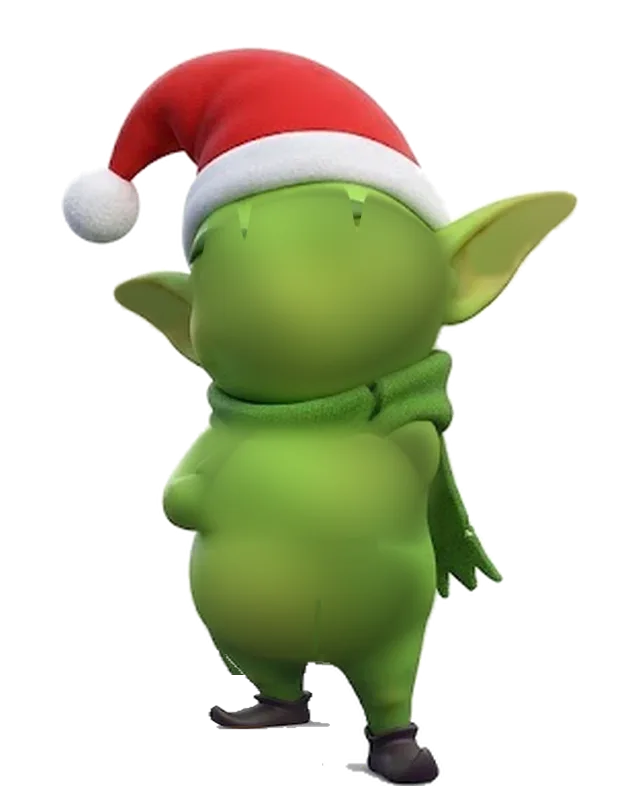
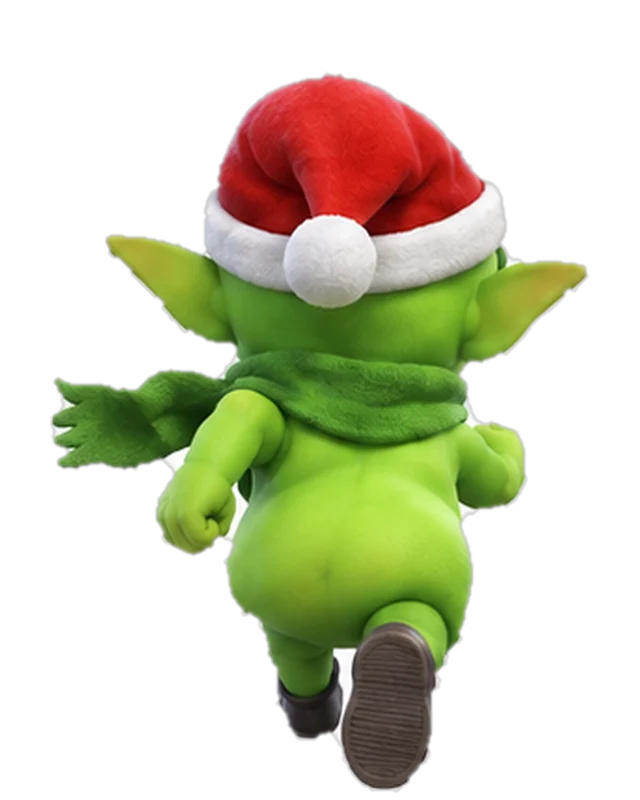
Zibo: 9 new 3D poses (real back-view run cycle, throw, dizzy, sack, taunt, angry, scared, cry)
Claude-Session: https://claude.ai/code/session_0191AENQkwj7j43dyMYaZkx6

diff --git a/js/core/assets.js b/js/core/assets.js
@@ -4,19 +4,26 @@
 window.CZ = window.CZ || {};
 
 CZ.OVERRIDES = {
-  // Zibo'nun Gemini çizimleri. Eksik pozlar gelene kadar en yakın poz kullanılır.
+  // Zibo'nun Gemini çizimleri (3D). Arkadan koşu, sersemleme, atış gibi pozlar ayrı ayrı.
   'zibo.idle': 'assets/zibo/png/smug.webp',
   'zibo.blink': 'assets/zibo/png/blink.webp',
   'zibo.smug': 'assets/zibo/png/smug.webp',
   'zibo.laugh': 'assets/zibo/png/laugh.webp',
-  'zibo.mad': 'assets/zibo/png/mad.webp',
-  'zibo.nervous': 'assets/zibo/png/nervous.webp',
-  'zibo.tantrum': 'assets/zibo/png/tantrum.webp',
-  'zibo.tongue': 'assets/zibo/png/run_tongue.webp',
+  'zibo.taunt': 'assets/zibo/png/taunt.webp',
+  'zibo.tongue': 'assets/zibo/png/taunt.webp',
+  'zibo.mad': 'assets/zibo/png/angry.webp',
+  'zibo.angry': 'assets/zibo/png/angry.webp',
+  'zibo.nervous': 'assets/zibo/png/scared.webp',
+  'zibo.scared': 'assets/zibo/png/scared.webp',
+  'zibo.tantrum': 'assets/zibo/png/cry.webp',
+  'zibo.cry': 'assets/zibo/png/cry.webp',
+  'zibo.dizzy': 'assets/zibo/png/dizzy.webp',
+  'zibo.throw': 'assets/zibo/png/throw.webp',
+  'zibo.sack': 'assets/zibo/png/sack.webp',
+  'zibo.runLoot': 'assets/zibo/png/sack.webp',
   'zibo.run1': 'assets/zibo/png/back1.webp',
   'zibo.run2': 'assets/zibo/png/back2.webp',
-  'zibo.back': 'assets/zibo/png/back.webp',
-  'zibo.runLoot': 'assets/zibo/png/run_loot.webp',
+  'zibo.back': 'assets/zibo/png/back1.webp',
   // Kunduz Usta: ev inşasında yardımcı
   'usta.wave': 'assets/usta/wave.webp', 'usta.talk': 'assets/usta/talk.webp', 'usta.hammer': 'assets/usta/hammer.webp',
   'usta.worried': 'assets/usta/worried.webp', 'usta.cheer': 'assets/usta/cheer.webp', 'usta.think': 'assets/usta/think.webp'

diff --git a/js/screens/chase.js b/js/screens/chase.js
@@ -124,7 +124,8 @@ CZ.screens.chase = (function () {
     c.bombs.slice().forEach(b => { if (now >= b.at) explode(b); });
 
     // Koşu karesi: bacaklar sırayla.
-    const runFrame = Math.floor(c.frame * 6) % 2 ? 'zibo.run2' : 'zibo.run1';
+    // Bomba atarken kısa bir an dönüp atar, sonra koşmaya devam eder.
+    const runFrame = now < (c.poseUntil || 0) ? 'zibo.throw' : Math.floor(c.frame * 6) % 2 ? 'zibo.run2' : 'zibo.run1';
     if (c.ziboImg.dataset.f !== runFrame) { c.ziboImg.dataset.f = runFrame; c.ziboImg.src = CZ.art(runFrame); }
     const me = 'avatar.' + (CZ.state.data.avatar || 'girl') + (Math.floor(c.frame * 6.6) % 2 ? '_run2' : '_run1');
     if (c.player.dataset.f !== me) { c.player.dataset.f = me; c.player.src = CZ.art(me); }
@@ -171,6 +172,7 @@ CZ.screens.chase = (function () {
   /* ---------- Bombalar ---------- */
   function throwBomb(now) {
     c.nextBomb = now + byLevel(C.bombEveryMs) * rand(0.8, 1.2);
+    c.poseUntil = now + 420;
     // Çoğunlukla oyuncunun şeridine atar: kaçmak zorunda kalsın.
     let lanes = [Math.random() < 0.7 ? c.lane : Math.floor(Math.random() * 3)];
     if (level() >= C.doubleBombLevel && Math.random() < 0.45) {
@@ -354,8 +356,8 @@ CZ.screens.chase = (function () {
     if (CZ.quests) CZ.quests.track('chase');
     CZ.audio.sfx('win');
     CZ.audio.vibrate([40, 30, 40, 30, 160]);
-    c.ziboImg.src = CZ.art('zibo.tantrum');
-    c.ziboImg.dataset.f = 'tantrum';
+    c.ziboImg.src = CZ.art('zibo.dizzy');
+    c.ziboImg.dataset.f = 'dizzy';
     c.zibo.classList.add('caught');
     say('zibo.chase.caught');
     const mine = h('div', { class: 'mine-pop show', text: t('chase.caught') });

diff --git a/js/screens/gold.js b/js/screens/gold.js
@@ -267,6 +267,7 @@ CZ.screens.gold = (function () {
     const el = h('div', { class: 'crate runner-crate trap trap-' + def.id }, img(def.art, 'crate-img'));
     g.field.insertBefore(el, g.me);
     g.traps.push({ def, el, sx: g.ziboLane, z: 0.04, alive: true, trap: true, hp: 1 });
+    g.poseUntil = performance.now() + 380;
     g.zibo.classList.remove('drop');
     void g.zibo.offsetWidth;
     g.zibo.classList.add('drop');
@@ -301,7 +302,7 @@ CZ.screens.gold = (function () {
     // Koşu kareleri: bacaklar sırayla.
     const f = 'avatar.' + g.avatar + (Math.floor(g.frame * 6.6) % 2 ? '_run2' : '_run1');
     if (g.meImg.dataset.f !== f) { g.meImg.dataset.f = f; g.meImg.src = CZ.art(f); }
-    const zf = Math.floor(g.frame * 6) % 2 ? 'zibo.run2' : 'zibo.run1';
+    const zf = t < (g.poseUntil || 0) ? 'zibo.throw' : Math.floor(g.frame * 6) % 2 ? 'zibo.run2' : 'zibo.run1';
     if (g.zibo.dataset.f !== zf) { g.zibo.dataset.f = zf; g.zibo.src = CZ.art(zf); }
     // Ayak tozu
     if (t >= g.nextDust) {

diff --git a/sw-files.js b/sw-files.js
@@ -217,17 +217,20 @@ self.CZ_FILES = [
  "assets/zibo/laugh.svg",
  "assets/zibo/mad.svg",
  "assets/zibo/nervous.svg",
- "assets/zibo/png/back.webp",
+ "assets/zibo/png/angry.webp",
  "assets/zibo/png/back1.webp",
  "assets/zibo/png/back2.webp",
  "assets/zibo/png/blink.webp",
+ "assets/zibo/png/cry.webp",
+ "assets/zibo/png/dizzy.webp",
  "assets/zibo/png/laugh.webp",
- "assets/zibo/png/mad.webp",
- "assets/zibo/png/nervous.webp",
  "assets/zibo/png/run_loot.webp",
  "assets/zibo/png/run_tongue.webp",
+ "assets/zibo/png/sack.webp",
+ "assets/zibo/png/scared.webp",
  "assets/zibo/png/smug.webp",
- "assets/zibo/png/tantrum.webp",
+ "assets/zibo/png/taunt.webp",
+ "assets/zibo/png/throw.webp",
  "assets/zibo/run1.svg",
  "assets/zibo/run2.svg",
  "assets/zibo/smug.svg",

diff --git a/js/core/game.js b/js/core/game.js
@@ -148,7 +148,7 @@ CZ.game = (function () {
 
   // Oyunun açılışında tüm Zibo pozlarını hazır et, poz değişirken görüntü titremesin.
   function preloadZibo() {
-    ['idle', 'blink', 'smug', 'laugh', 'mad', 'nervous', 'tantrum', 'tongue', 'run1', 'run2'].forEach(p => { new Image().src = CZ.art('zibo.' + p); });
+    ['idle', 'blink', 'smug', 'laugh', 'mad', 'nervous', 'tantrum', 'tongue', 'run1', 'run2', 'dizzy', 'throw', 'sack'].forEach(p => { new Image().src = CZ.art('zibo.' + p); });
   }
 
   const formatSeconds = n => n.toLocaleString(CZ.i18n.current, { minimumFractionDigits: 1, maximumFractionDigits: 1 });

diff --git a/sw.js b/sw.js
@@ -1,6 +1,6 @@
 // İnternetsiz çalışma. Önce ağı dener (yeni görseller hemen görünsün), ağ yoksa hafızadan verir.
 importScripts('sw-files.js');
-const CACHE = 'catchzibo-v18';
+const CACHE = 'catchzibo-v19';
 
 self.addEventListener('install', event => {
   event.waitUntil(caches.open(CACHE).then(cache =>
